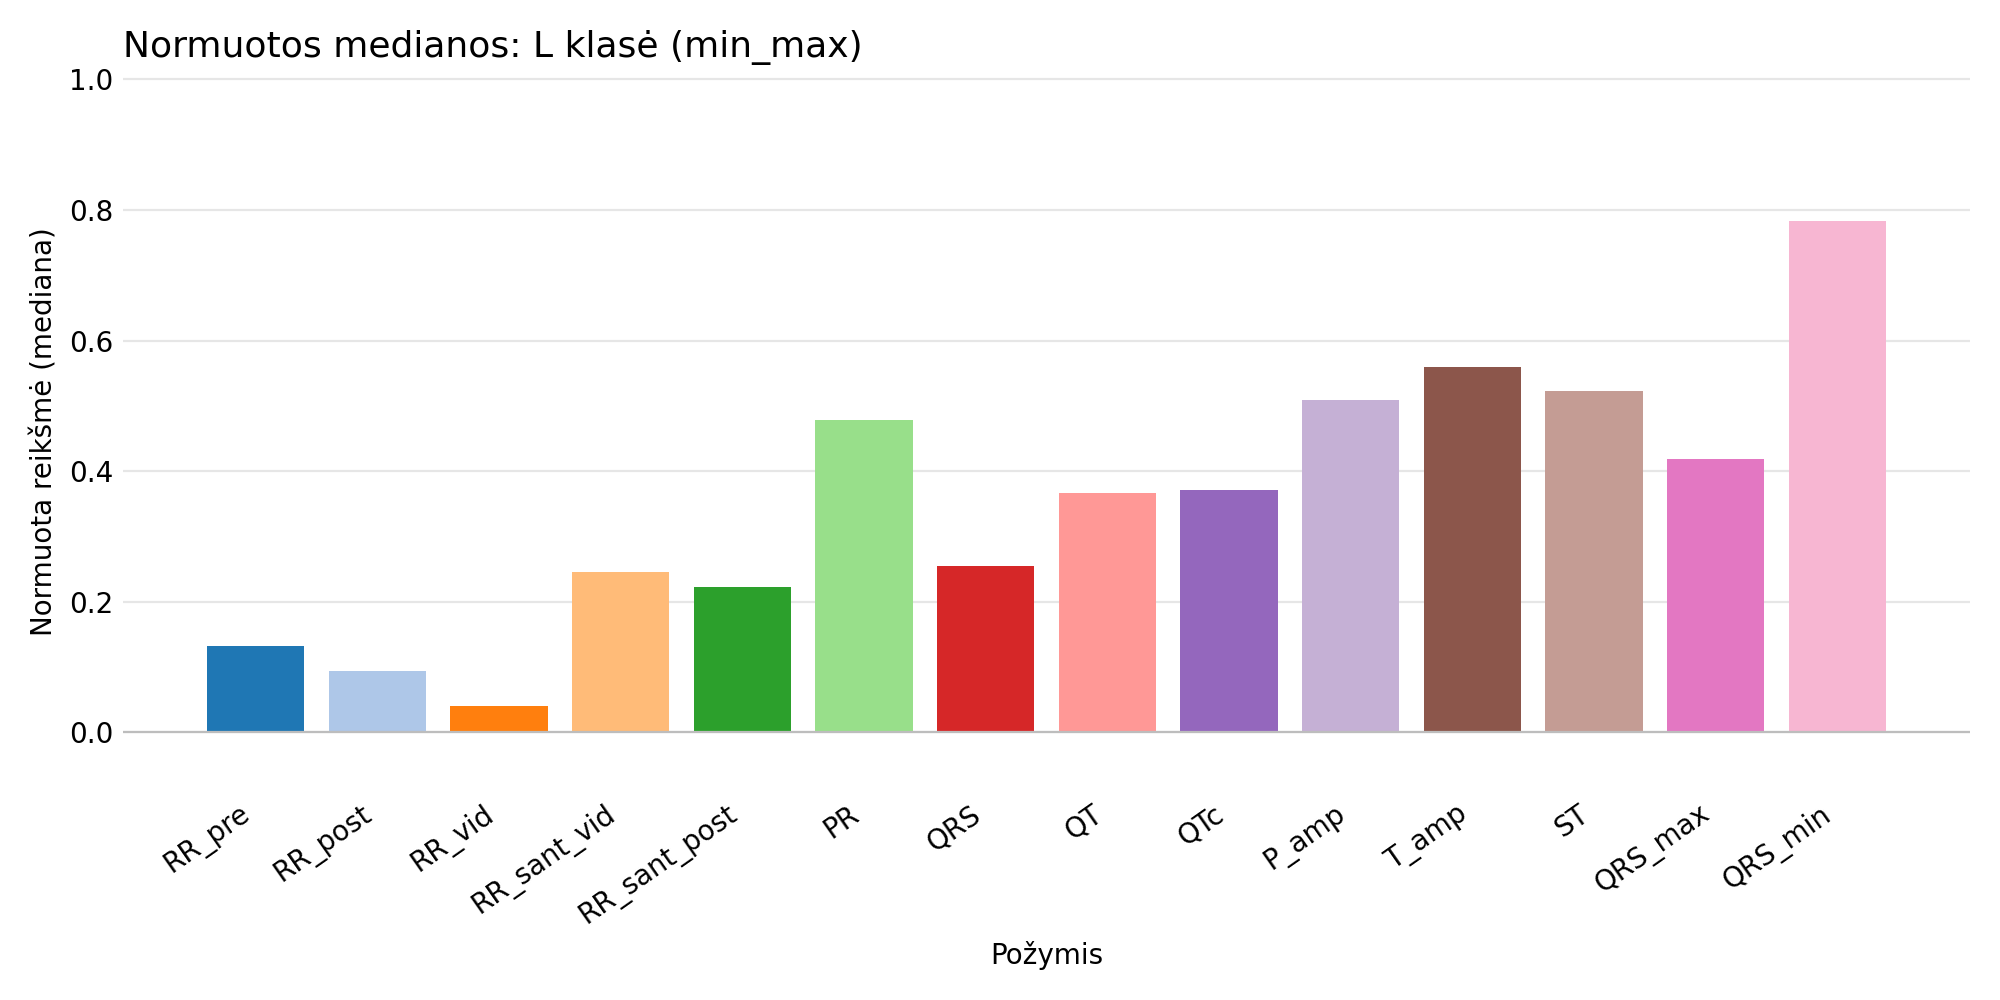
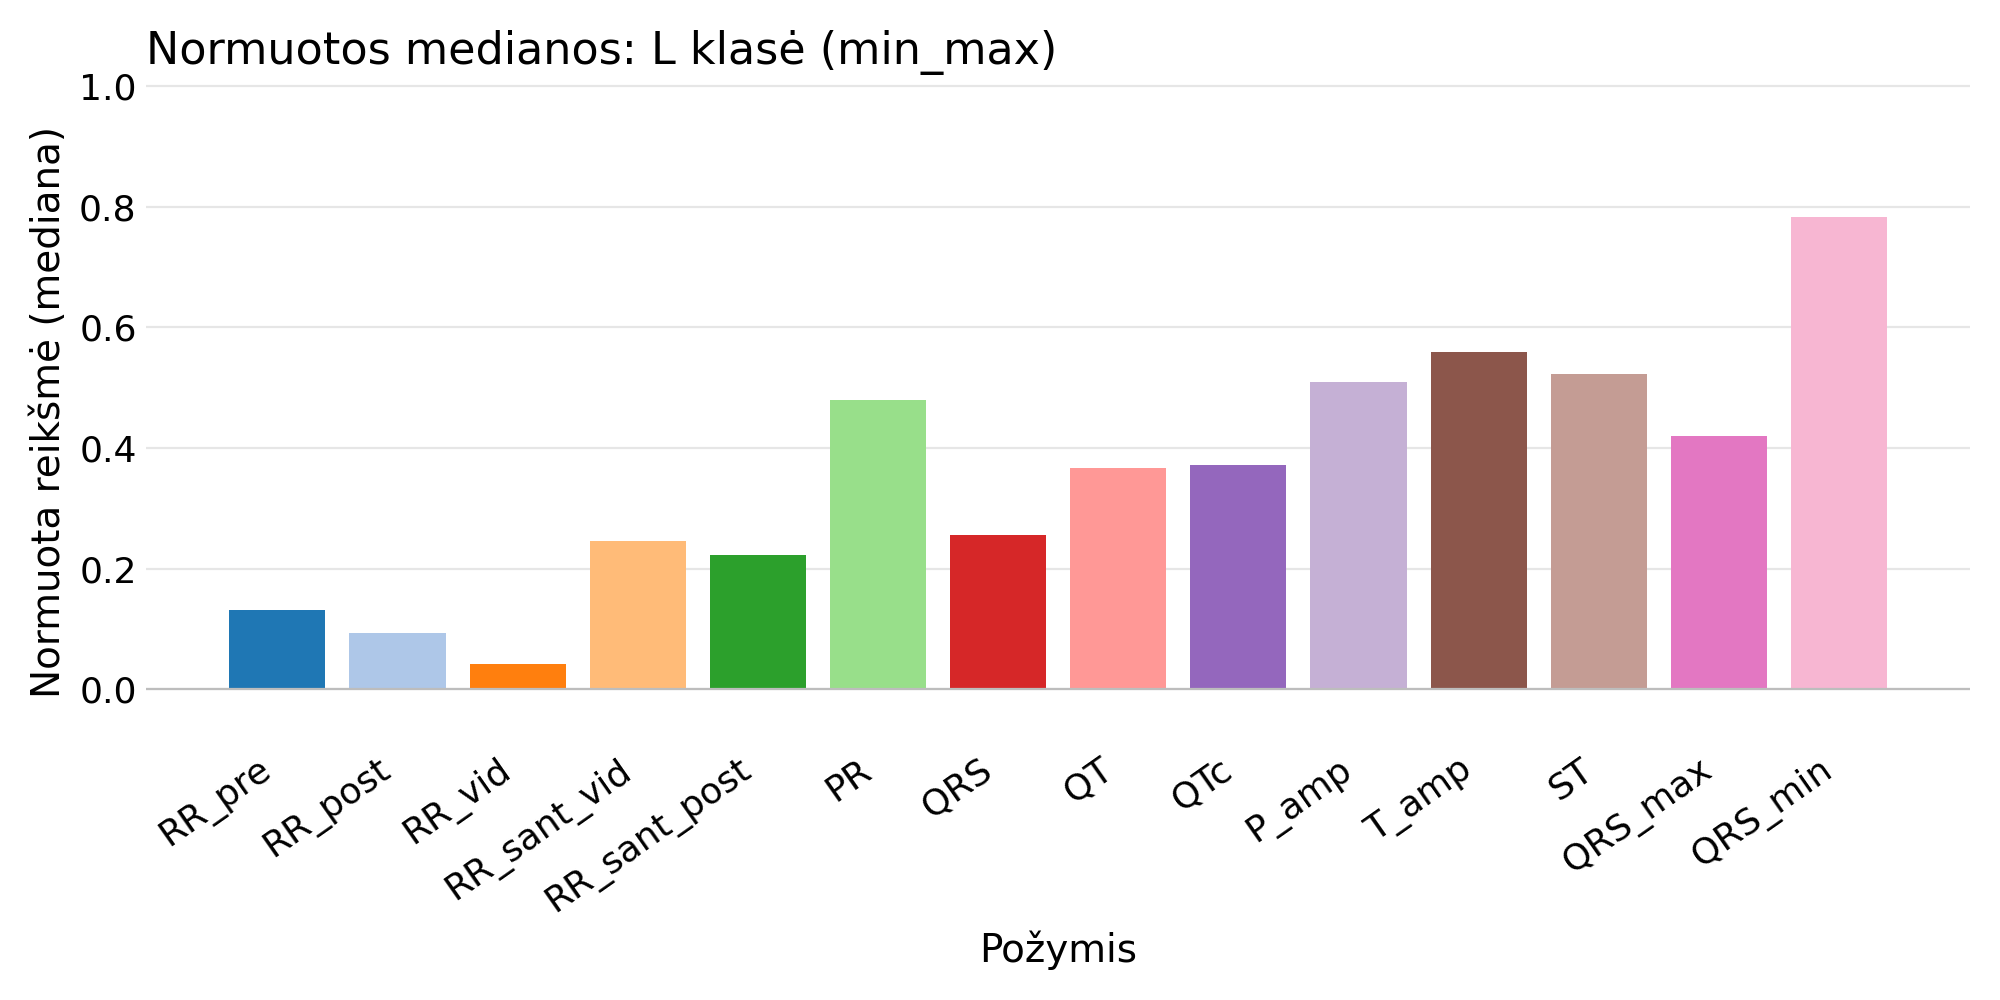
final version for data normalisation

diff --git a/normavimas.py b/normavimas.py
@@ -1,9 +1,7 @@
-#   1. Min-max:              x_norm   = (x - x_min) / (x_max - x_min)
-#   2. Mean and variance:    x_norm   = (x - mean) / sqrt(variance)
-#   3. Robust scaling:       x_robust = (x - Med(x)) / IQR,   IQR = Q3 - Q1
 from pathlib import Path
 
 import matplotlib.pyplot as plt
+import numpy as np
 import pandas as pd
 
 input_file = "duomenys/tiriamoji_sutvarkyta.csv"
@@ -17,6 +15,10 @@ numeric_features = [
     "PR", "QRS", "QT", "QTc",
     "P_amp", "T_amp", "ST", "QRS_max", "QRS_min",
 ]
+title_size = 16
+label_size = 14        
+tick_size = 13        
+legend_size = 13
 
 def min_max(x):
     x_min = x.min()
@@ -30,16 +32,16 @@ def mean_and_variance(x):
     return (x - mean) / variance ** 0.5
 
 
-def robust(x):
+def robust_scalling(x):
     median = x.median()
     iqr = x.quantile(0.75) - x.quantile(0.25)
     return (x - median) / iqr
 
 
 methods = {
-    "min_max": ("Min–max", min_max),
-    "vid_ir_disp": ("vid_ir_disp", mean_and_variance),
-    "atsparusis_mastelio_keitimas": ("atsparusis_mastelio_keitimas", robust),
+    "min_max": ("", min_max),
+    "vid_ir_disp": ("", mean_and_variance),
+    "atsparusis_mastelio_keitimas": ("", robust_scalling),
 }
 
 
@@ -55,35 +57,50 @@ def normalize(data, method):
 def medians_by_class(data):
     return data.groupby(class_column)[numeric_features].median().T[classes]
 
-feature_colours = plt.get_cmap("tab20").colors[:len(numeric_features)]
 
 
-def plot_medians_bar_chart(medians, title, y_label, file_name):
+#visualization
+feature_colours = dict(zip(numeric_features, plt.get_cmap("tab20").colors))
+features_to_show = 6
+
+
+def features_that_differ_most(medians):
+    spread = medians.max(axis=1) - medians.min(axis=1)
+    top_features = spread.sort_values(ascending=False).index[:features_to_show]
+    return [feature for feature in numeric_features if feature in top_features]
+
+
+def plot_medians_bar_chart(medians, features, title, y_label, file_name):
     figure, axis = plt.subplots(figsize=(13, 6))
+    bar_width = 0.9 / len(features)
+    positions = np.arange(len(classes))
 
-    medians.T.plot(kind="bar", ax=axis, width=0.9, color=feature_colours, rot=0)
+    for number, feature in enumerate(features):
+        axis.bar(positions + number * bar_width, medians.loc[feature, classes],
+                 width=bar_width, color=feature_colours[feature], label=feature)
+
     axis.set_facecolor("white")
-    axis.grid(color="#e6e6e6", linewidth=0.8)
+    axis.grid(axis="y", color="#e6e6e6", linewidth=0.8)
     axis.set_axisbelow(True)
     for side in axis.spines.values():
         side.set_visible(False)
     axis.tick_params(length=0)
-
-    axis.axhline(0, color="#bdbdbd", linewidth=0.8)
-    axis.set_title(title, loc="left", fontsize=13)
-    axis.set_xlabel("Dūžio klasė")
-    axis.set_ylabel(y_label)
+    axis.axhline(0, color="#9e9e9e", linewidth=0.8)
+    axis.set_xticks(positions + 0.9 / 2 - bar_width / 2, classes, fontsize=tick_size + 2)
+    axis.tick_params(axis="y", labelsize=tick_size)
+    axis.set_xlabel("Dūžio klasė", fontsize=label_size)
+    axis.set_ylabel(y_label, fontsize=label_size)
+    axis.set_title(title, loc="center", fontsize=title_size)
     axis.legend(title="Požymis", bbox_to_anchor=(1.01, 0.5), loc="center left",
-                frameon=False, fontsize=9)
+                frameon=False, fontsize=legend_size, title_fontsize=legend_size + 1)
 
     save_figure(file_name)
 
 
 def plot_one_class(medians, class_name, title, y_limits, file_path):
     figure, axis = plt.subplots(figsize=(10, 5))
-
-    axis.bar(numeric_features, medians[class_name], color=feature_colours, width=0.8)
-
+    colours = [feature_colours[feature] for feature in numeric_features]
+    axis.bar(numeric_features, medians[class_name], color=colours, width=0.8)
     axis.set_facecolor("white")
     axis.grid(axis="y", color="#e6e6e6", linewidth=0.8)
     axis.set_axisbelow(True)
@@ -93,10 +110,11 @@ def plot_one_class(medians, class_name, title, y_limits, file_path):
 
     axis.axhline(0, color="#bdbdbd", linewidth=0.8)
     axis.set_ylim(y_limits)
-    axis.set_title(title, loc="left", fontsize=13)
-    axis.set_xlabel("Požymis")
-    axis.set_ylabel("Normuota reikšmė (mediana)")
-    plt.xticks(rotation=35, ha="right")
+    axis.set_title(title, loc="left", fontsize=title_size)
+    axis.set_xlabel("Požymis", fontsize=label_size)
+    axis.set_ylabel("Normuota reikšmė (mediana)", fontsize=label_size)
+    axis.tick_params(axis="y", labelsize=tick_size)
+    plt.xticks(rotation=35, ha="right", fontsize=tick_size)
 
     plt.tight_layout()
     plt.savefig(file_path, dpi=200)
@@ -131,32 +149,38 @@ def print_min_max_squeeze(min_max_data):
 def main():
     output_folder.mkdir(parents=True, exist_ok=True)
     data = pd.read_csv(input_file)
-
     plot_medians_bar_chart(
         medians_by_class(data),
+        numeric_features,
         "Nenormuotų požymių medianos pagal dūžio klasę",
         "Mediana",
         "nenormuotos_medianos.png",
     )
 
     normalized_data = {}
+    medians = {}
 
     for method_name, (title, method) in methods.items():
         normalized = normalize(data, method)
         normalized.to_csv(output_folder / f"tiriamoji_{method_name}.csv", index=False)
         normalized_data[method_name] = normalized
 
-        medians = medians_by_class(normalized)
+        medians[method_name] = medians_by_class(normalized)
         print(f"\n{title} – požymių medianos pagal klasę:")
-        print(medians.round(3))
+        print(medians[method_name].round(3))
 
+    shown_features = features_that_differ_most(medians["atsparusis_mastelio_keitimas"])
+    print("\nDiagramose rodomi požymiai:", shown_features)
+
+    for method_name, (title, method) in methods.items():
         plot_medians_bar_chart(
-            medians,
-            f"Normuotos medianos pagal dūžio klasę ({title})",
+            medians[method_name],
+            shown_features,
+            f"Normuotos medianos kiekvienai dūžio klasei",
             "Normuota reikšmė (mediana)",
             f"medianos_{method_name}.png",
         )
-        plot_every_class_separately(medians, method_name)
+        plot_every_class_separately(medians[method_name], method_name)
 
     print_min_max_squeeze(normalized_data["min_max"])
 
